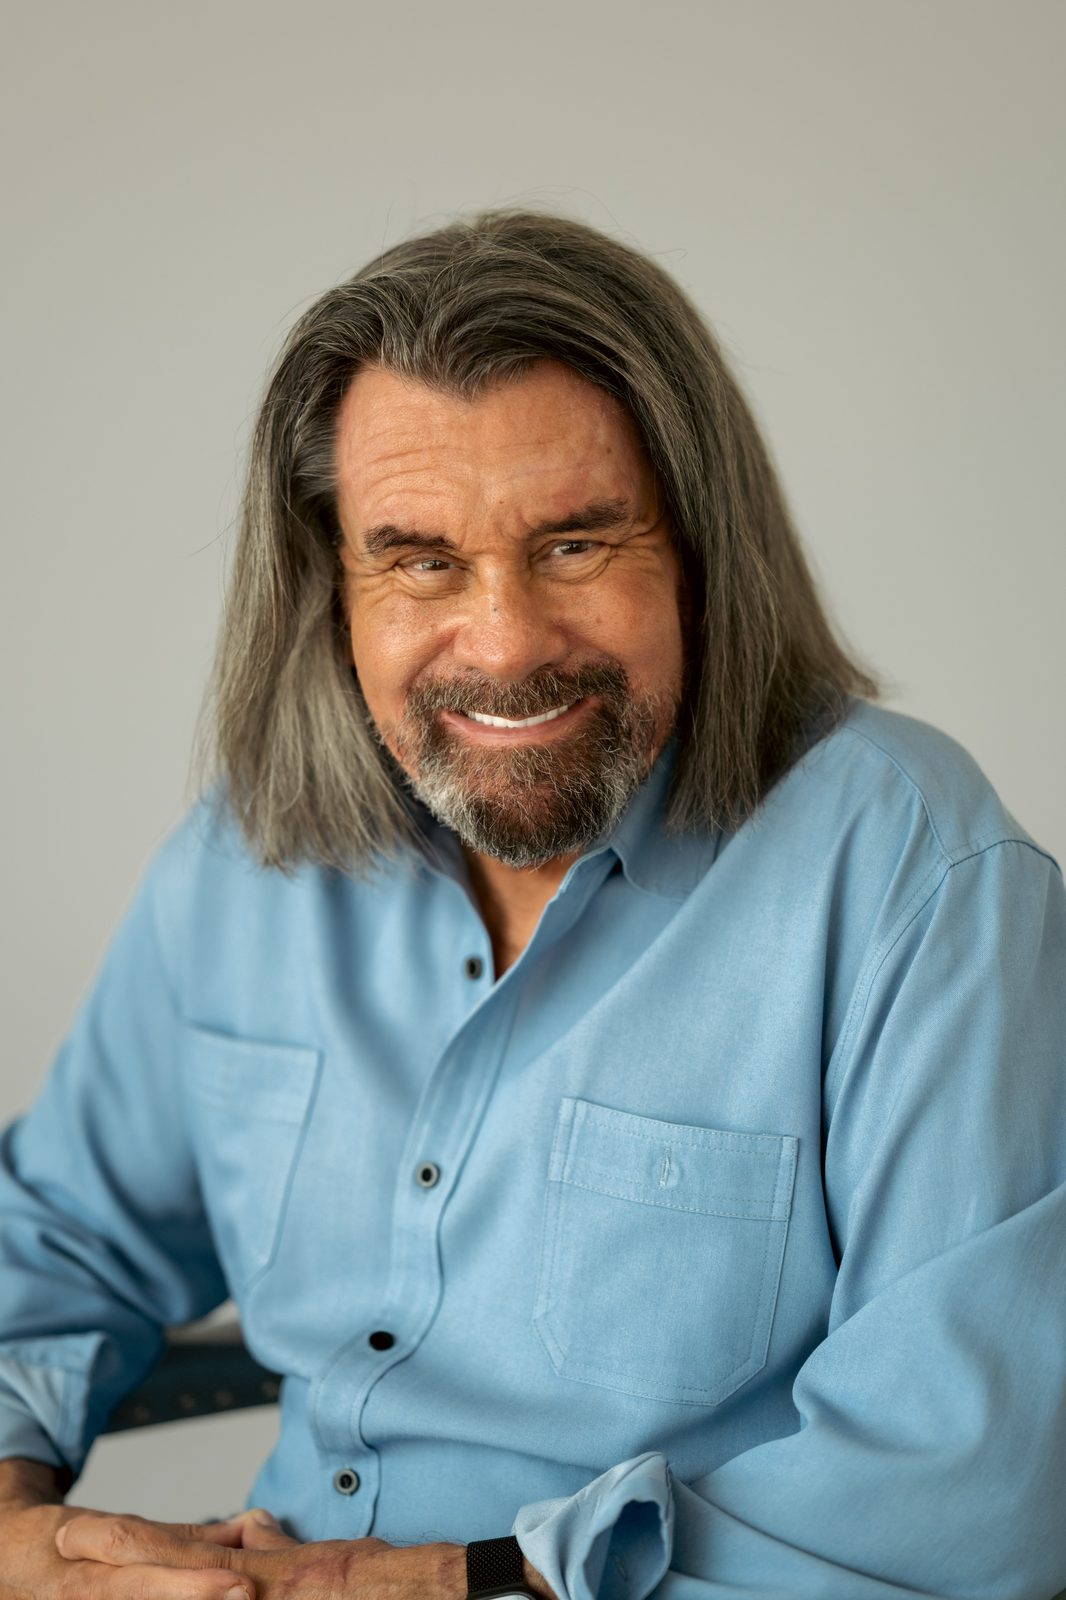
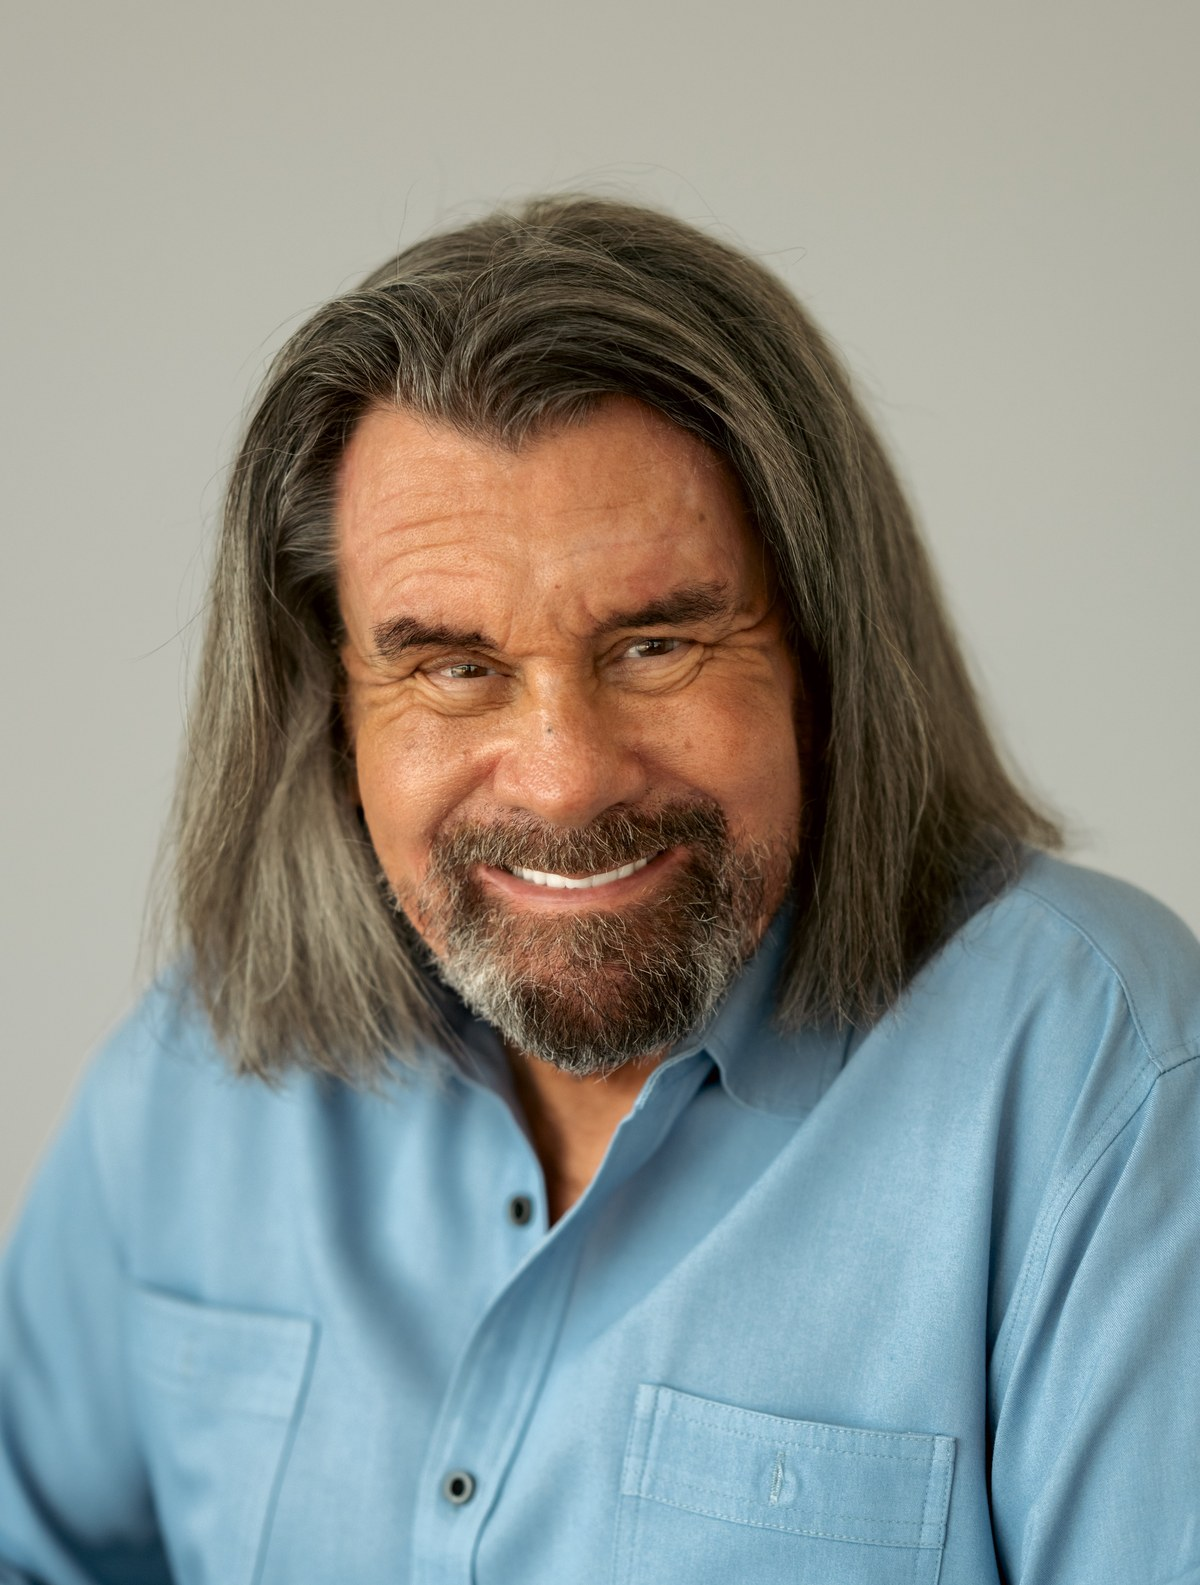
Restore blue portrait on About + Estate + Real Estate + Business Entities with tighter crop Then click the green Commit changes button.  Tell me when committed.

diff --git a/about.html b/about.html
@@ -349,7 +349,7 @@
     <p class="lede">A 30+ year Texas attorney whose practice moves across commercial finance, federal tax credit finance, tax resolution, and estate planning — and who builds the infrastructure his firm runs on himself.</p>
   </div>
   <div class="portrait-frame" style="padding:0;border:none;">
-    <img src="/norris-portrait-editorial.jpg" alt="Norris Lozano, founding attorney of Lozano Legal Advisors PLLC" style="display:block;width:100%;height:100%;object-fit:cover;" />
+    <img src="/norris-portrait-advisor.jpg" alt="Norris Lozano, founding attorney of Lozano Legal Advisors PLLC" style="display:block;width:100%;height:100%;object-fit:cover;" />
   </div>
 </section>
 

diff --git a/business-entities.html b/business-entities.html
@@ -311,7 +311,7 @@
 </section>
 
 <section style="max-width:420px;margin:0 auto;padding:48px 40px 0;">
-  <img src="/norris-portrait-editorial.jpg" alt="Norris Lozano, founding attorney" style="display:block;width:100%;height:auto;" loading="lazy" />
+  <img src="/norris-portrait-advisor.jpg" alt="Norris Lozano, founding attorney" style="display:block;width:100%;height:auto;" loading="lazy" />
 </section>
 
 <section class="content">

diff --git a/estate-planning.html b/estate-planning.html
@@ -311,7 +311,7 @@
 </section>
 
 <section style="max-width:420px;margin:0 auto;padding:48px 40px 0;">
-  <img src="/norris-portrait-editorial.jpg" alt="Norris Lozano, founding attorney" style="display:block;width:100%;height:auto;" loading="lazy" />
+  <img src="/norris-portrait-advisor.jpg" alt="Norris Lozano, founding attorney" style="display:block;width:100%;height:auto;" loading="lazy" />
 </section>
 
 <section class="content">

diff --git a/real-estate.html b/real-estate.html
@@ -311,7 +311,7 @@
 </section>
 
 <section style="max-width:420px;margin:0 auto;padding:48px 40px 0;">
-  <img src="/norris-portrait-editorial.jpg" alt="Norris Lozano, founding attorney" style="display:block;width:100%;height:auto;" loading="lazy" />
+  <img src="/norris-portrait-advisor.jpg" alt="Norris Lozano, founding attorney" style="display:block;width:100%;height:auto;" loading="lazy" />
 </section>
 
 <section class="content">